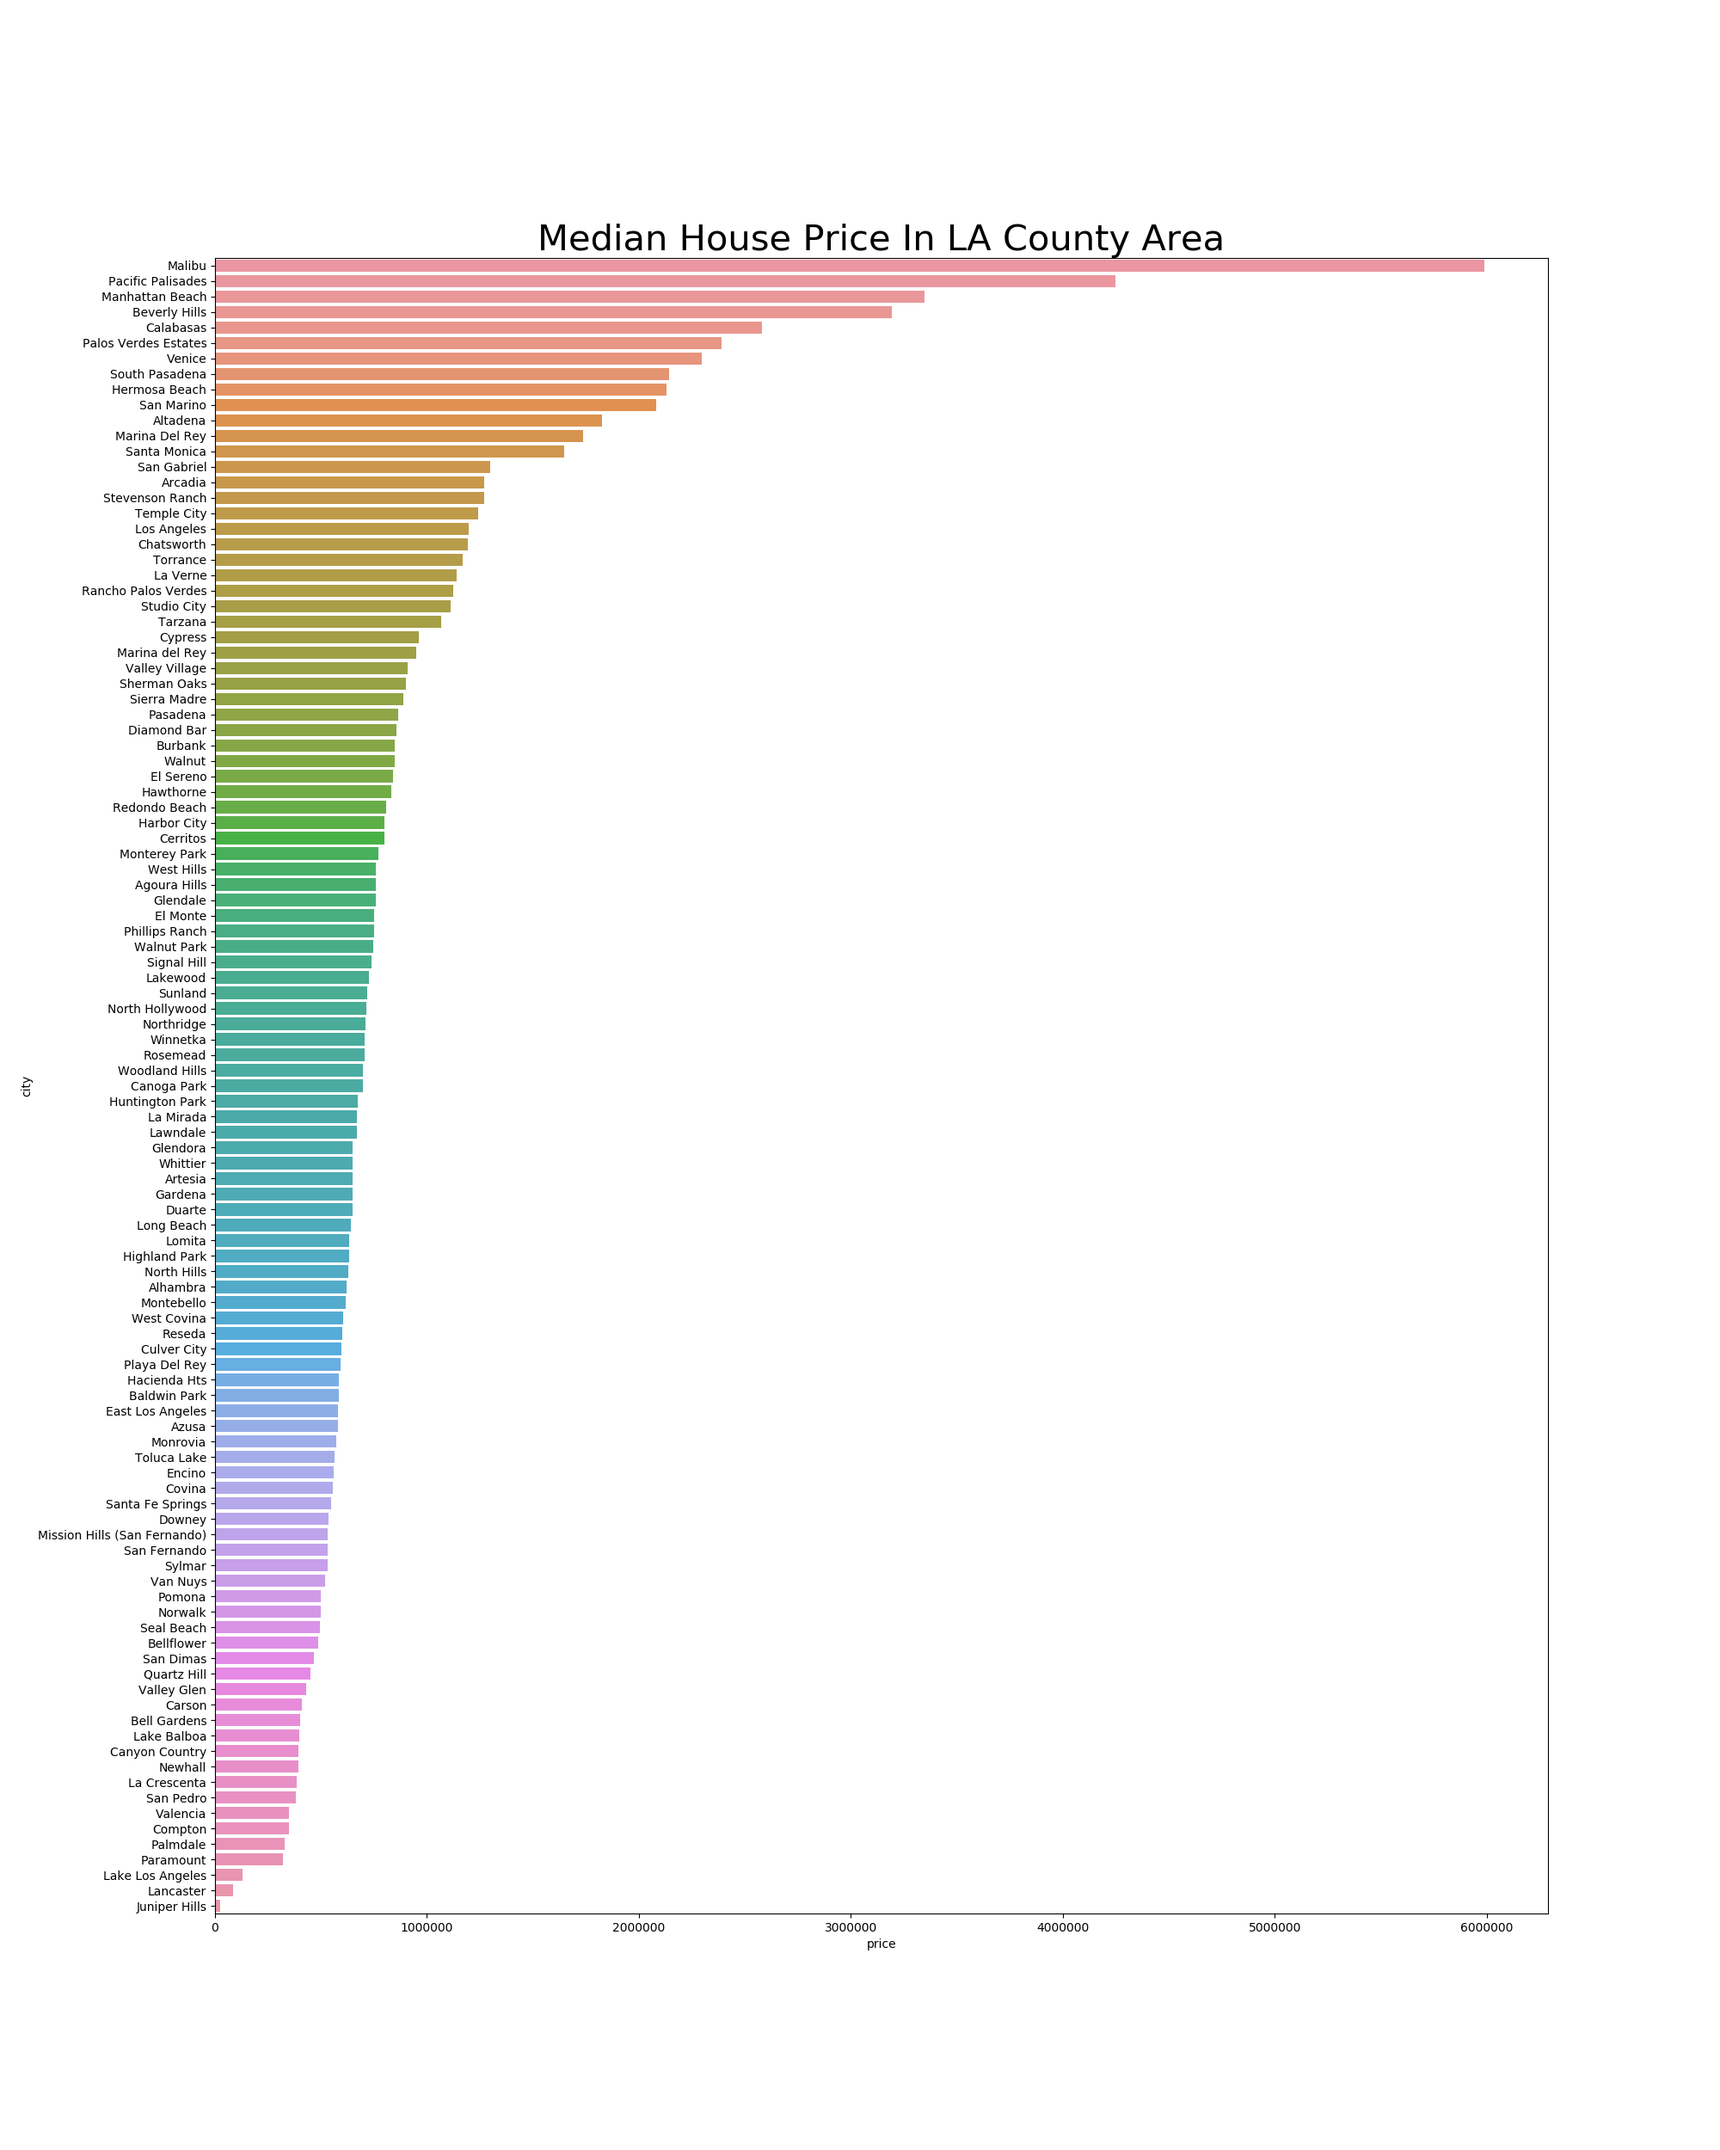
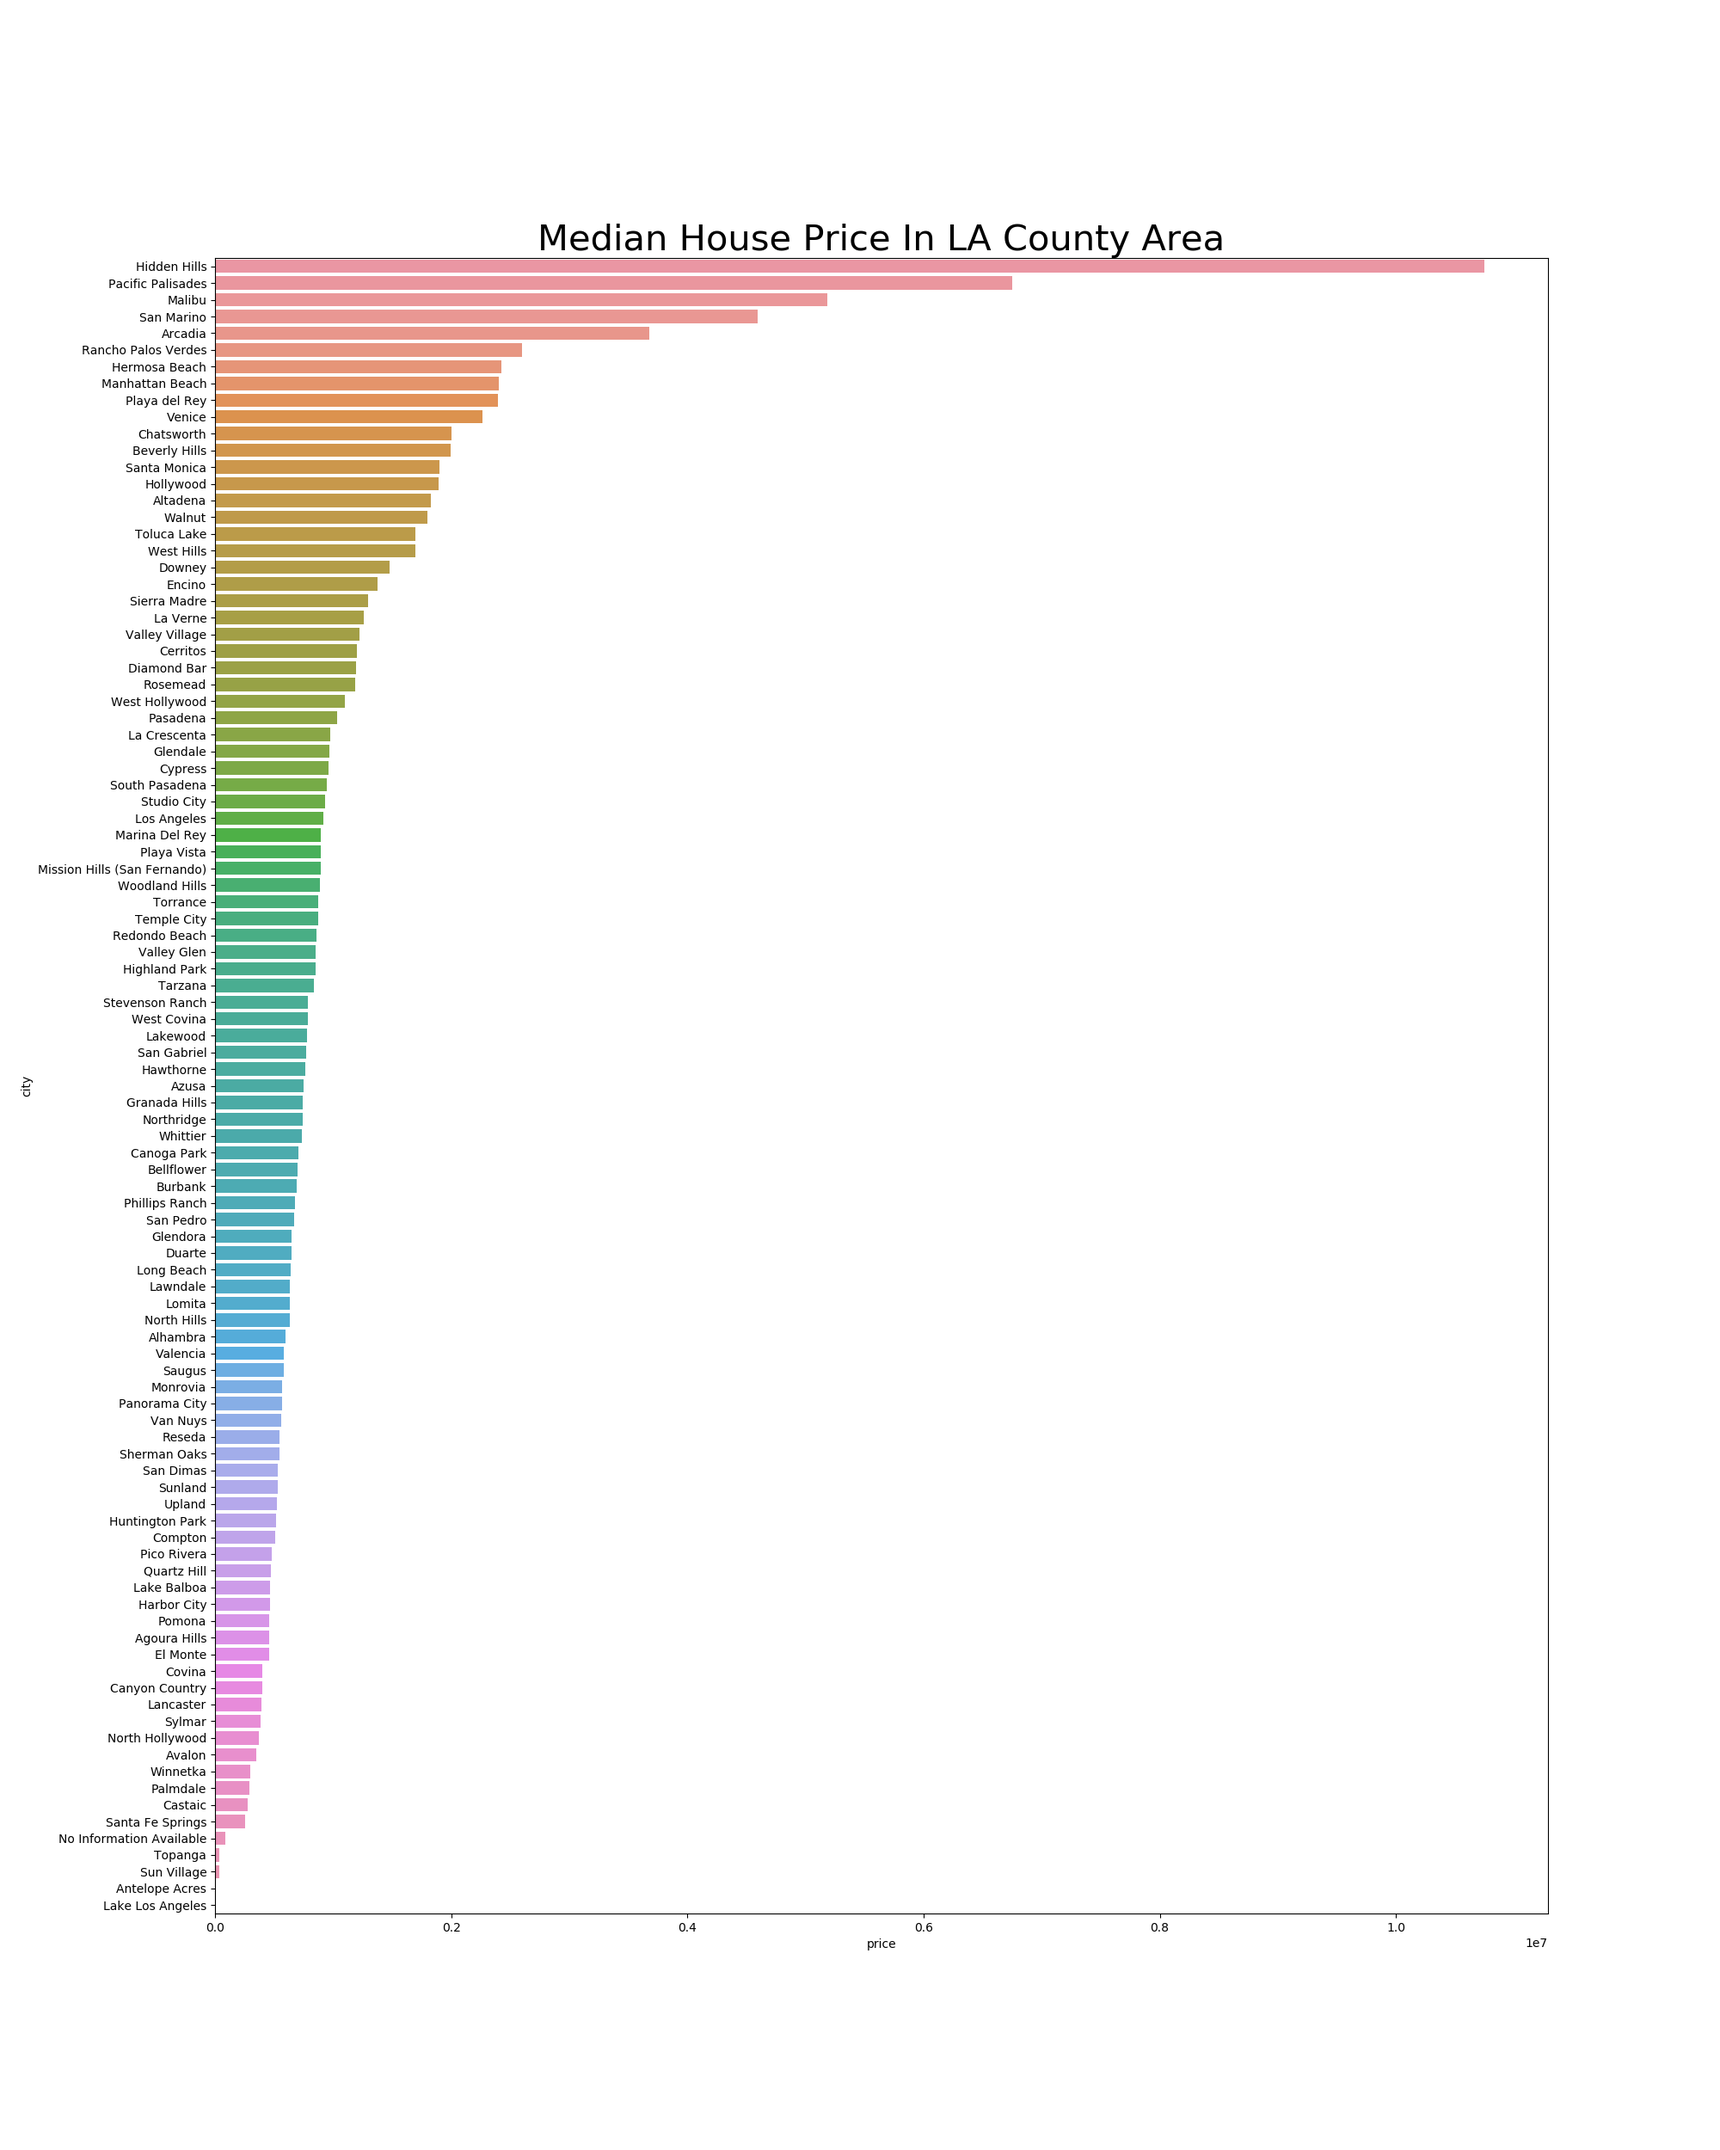
finish up

Changed region(s): [[0.062, 0.1248, 0.558, 0.9048], [0.589, 0.1248, 0.651, 0.156]]

diff --git a/templates/data.html b/templates/data.html
@@ -1,0 +1,52 @@
+<!DOCTYPE html>
+<html lang="en-us">
+
+  <head>
+    <meta charset="UTF-8">
+    <meta name="viewport" content="width=device-width, initial-scale=1.0">
+    <meta http-equiv="X-UA-Compatible" content="ie=edge">
+    <title>Redfine Housing Summary</title>
+    <link rel="stylesheet" href="https://stackpath.bootstrapcdn.com/bootstrap/4.3.1/css/bootstrap.min.css" integrity="sha384-ggOyR0iXCbMQv3Xipma34MD+dH/1fQ784/j6cY/iJTQUOhcWr7x9JvoRxT2MZw1T" crossorigin="anonymous">
+    <link rel="stylesheet" href="../static/style.css" type="text/css">
+</head>
+
+<!--Navbar-->
+<nav class="navbar navbar-expand-lg navbar-light">
+    <a class="navbar-brand text-white" href="/"><strong>Home</strong></a>
+    <button class="navbar-toggler" type="button" data-toggle="collapse" data-target="#navbarNav" aria-controls="navbarNav" aria-expanded="false" aria-label="Toggle navigation">
+      <span class="navbar-toggler-icon"></span>
+    </button>
+  
+    <div class="collapse navbar-collapse" id="navbarNav">
+      <ul class="navbar-nav ml-auto">
+        <li class="nav-item">
+          <a class="nav-link text-white" target="_blank" href="https://www.redfin.com/county/321/CA/Los-Angeles-County/"><strong>Redfin Website</strong></a>
+        </li>
+        <li class="nav-item">
+          <a class="nav-link text-white" href="#"><strong>Data</strong></a>
+        </li>
+      </ul>
+    </div>
+</nav>
+<br><br>
+<body>
+    <div class="container">
+        <div class="row">
+            <h2 class="data-title">Scraped Redfin Data</h2>
+        </div><hr><br>
+
+        <div class="row raw-data">{{redfin["html_table"]|safe}}</div>
+    </div>
+</body>
+
+<footer>
+  <div class="footer">&copy; Copyright Peter Sun</div>
+</footer>
+
+</html>
+
+
+<script src="https://code.jquery.com/jquery-3.3.1.slim.min.js" integrity="sha384-q8i/X+965DzO0rT7abK41JStQIAqVgRVzpbzo5smXKp4YfRvH+8abtTE1Pi6jizo" crossorigin="anonymous"></script>
+<script src="https://cdnjs.cloudflare.com/ajax/libs/popper.js/1.14.7/umd/popper.min.js" integrity="sha384-UO2eT0CpHqdSJQ6hJty5KVphtPhzWj9WO1clHTMGa3JDZwrnQq4sF86dIHNDz0W1" crossorigin="anonymous"></script>
+<script src="https://stackpath.bootstrapcdn.com/bootstrap/4.3.1/js/bootstrap.min.js" integrity="sha384-JjSmVgyd0p3pXB1rRibZUAYoIIy6OrQ6VrjIEaFf/nJGzIxFDsf4x0xIM+B07jRM" crossorigin="anonymous"></script>
+

diff --git a/templates/index.html b/templates/index.html
@@ -23,7 +23,7 @@
         <a class="nav-link text-white" target="_blank" href="https://www.redfin.com/county/321/CA/Los-Angeles-County/"><strong>Redfin Website</strong></a>
       </li>
       <li class="nav-item">
-        <a class="nav-link text-white" href="#"><strong>Data</strong></a>
+        <a class="nav-link text-white" href="/data"><strong>Data</strong></a>
       </li>
     </ul>
   </div>

diff --git a/static/style.css b/static/style.css
@@ -62,3 +62,20 @@
     padding-top: 15px;
   
   }
+
+
+
+.dataframe{
+    text-align: center;
+    font-size: small;
+    border-collapse: collapse ;
+    width: 100%;
+    border: 0px;
+}
+
+.dataframe th{
+    text-align: center;
+    border-bottom: 1px solid #ddd;
+}
+tr:nth-child(even) {background-color: #f2f2f2;}
+tr:hover {background-color: #f5f5f5;}

diff --git a/scrape_redfin.py b/scrape_redfin.py
@@ -84,8 +84,10 @@ def scraper():
             sub_dict["price"] = scrape_cards_info(homecard, "price","span","homecardV2Price",1)
             sub_dict["address"] = scrape_cards_info(homecard, "address","div","homeAddressV2",1)
             sub_dict["link"] = "https://www.redfin.com"+scrape_cards_info(homecard, "link","","",1)
-            sub_dict["city"] = ast.literal_eval(homecard.find_all("script")[0].text)[0]["address"]["addressLocality"].strip()
-
+            try:
+                sub_dict["city"] = ast.literal_eval(homecard.find_all("script")[0].text)[0]["address"]["addressLocality"].strip()
+            except:
+                sub_dict["city"] = "No Information Available"
             # append dict to list
             homecard_list.append(sub_dict)
     
@@ -100,7 +102,8 @@ def data_cleaner(dataframe)->pd.core.frame.DataFrame:
     dataframe["beds"] = [re.split("\s", bed)[0] if re.split("\s", bed)[0].isnumeric() else "" for bed in dataframe["beds"]]
     dataframe["baths"] = [re.split("\s", bed)[0] if re.split("\s", bed)[0].isnumeric() else "" for bed in dataframe["baths"]]
     dataframe["price"] = [int(p.replace("$","").replace(",","")) for p in dataframe["price"]]
-    dataframe["area"] = [re.split("\s", a)[0].replace(",","") for a in dataframe["area"]]
+    # dataframe["area"] = [re.split("\s", a)[0].replace(",","") for a in dataframe["area"]]
+    dataframe = dataframe.sort_values("city",ascending = False)
     
 
 
@@ -113,7 +116,10 @@ def summary(dataframe)->dict:
     summary_info["avg_price"] = "${:,.0f}".format(round(dataframe["price"].describe()[1],0)) # average price
     summary_info["median_price"] =  "${:,.0f}".format(round(dataframe["price"].describe()[5],0)) # median price
     summary_info["max_price"] =  "${:,.0f}".format(round(dataframe["price"].describe()[-1],0)) # max price
+    summary_info["html_table"] = dataframe.to_html(index=False)
     return summary_info
+
+
 
 def plot_data(dataframe)->None:
     """export a png plot
@@ -126,7 +132,8 @@ def plot_data(dataframe)->None:
     plot_figure.savefig("static/plot.png")
     
     return None
-    
+
+
     
     
     

diff --git a/app.py b/app.py
@@ -25,6 +25,12 @@ def scraper():
     scrape_redfin.plot_data(house_data)
     return redirect("/", code=302)
 
+@app.route("/data")
+def data_display():
+    house_data = mongo.db.redfin.find_one()
+    return render_template("data.html", redfin = house_data)
+
+
 if __name__=="__main__":
     app.run(debug=True)
 

diff --git a/README.md b/README.md
@@ -1,1 +1,23 @@
 # ETL_Redfin_housing_info
+### **Objective:**
+#### This flask app scrapes live Los Angeles County house information from Redfin. It displays summary statistics and graph on the home page, and raw data on data page.(If you can do a mental math by browsing all LA county house information on Redfin, you can leave the click Redfin website tag :). 
+
+### **Library:**
+* bs4
+* Flask
+* PyMongo
+* Pandas
+* splinter
+* time
+* re
+* ast
+* matplotlib
+* seaborn
+
+### **Display**
+![plot1](Images/landingpage.png)
+<br><br>
+![plot2](Images/landingpagegraph.png)
+<br><br>
+![plot3](Images/data.png)
+
